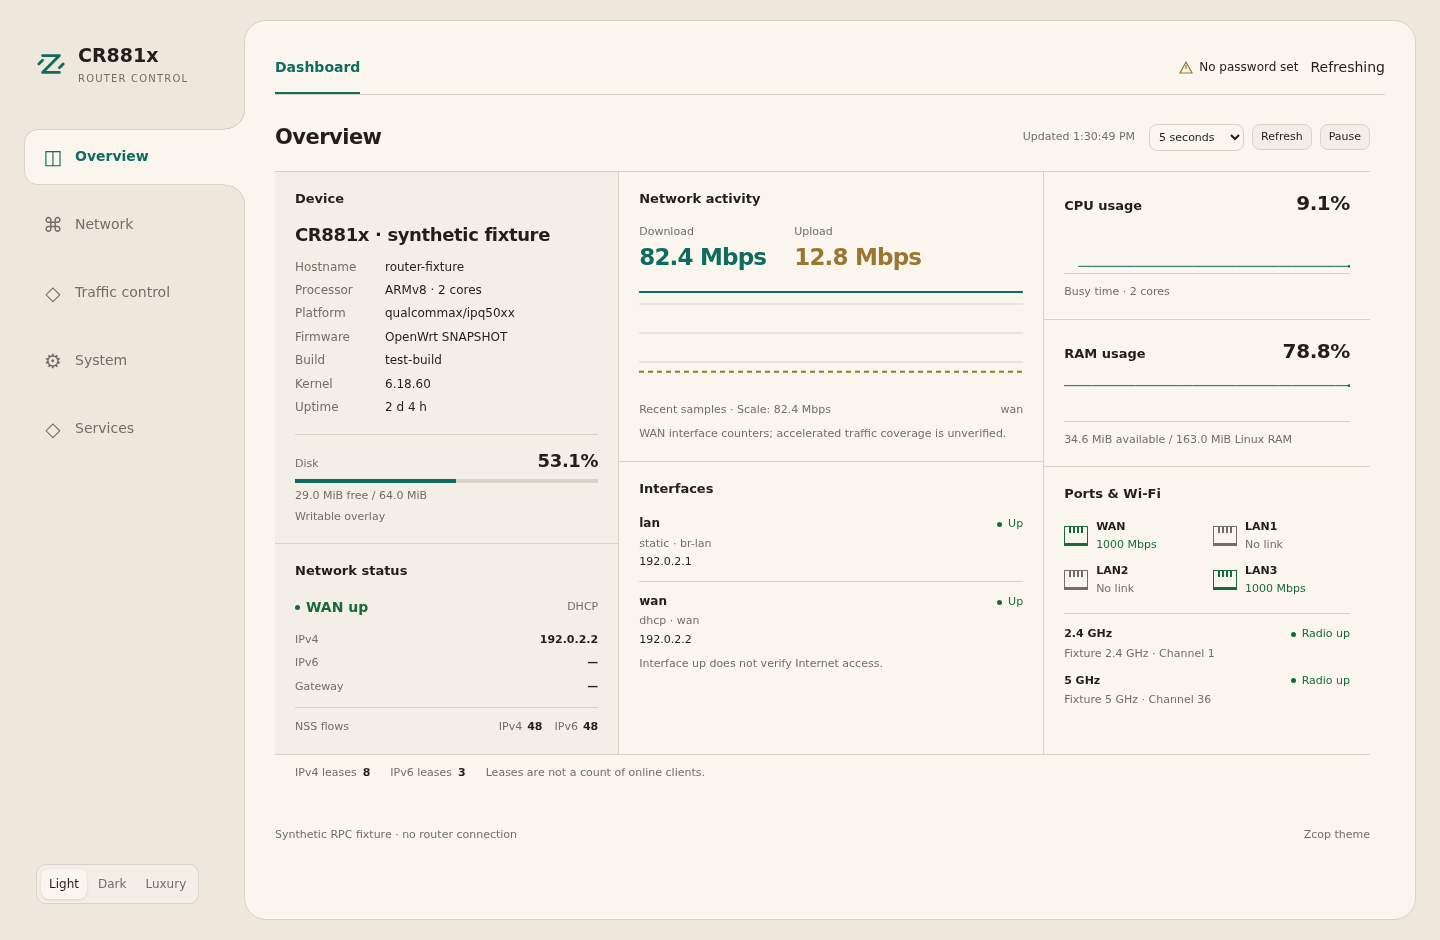
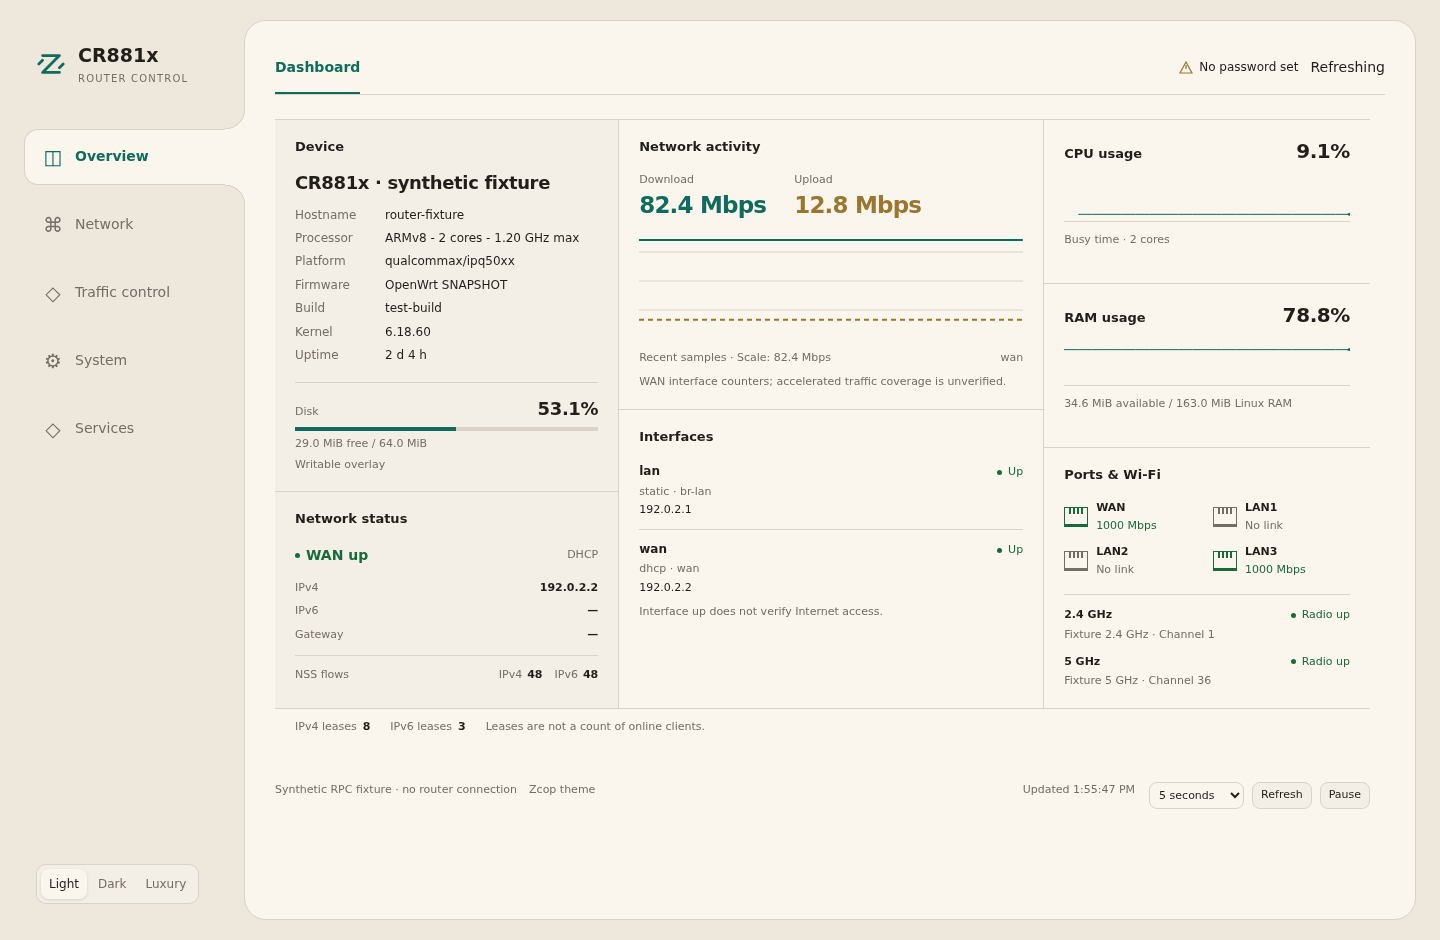
luci-app-zcop-dashboard: stabilize metrics and move controls to footer

diff --git a/luci-app-zcop-dashboard/htdocs/luci-static/resources/view/zcop/dashboard.js b/luci-app-zcop-dashboard/htdocs/luci-static/resources/view/zcop/dashboard.js
@@ -35,11 +35,19 @@ function uptime(seconds) {
 }
 
 return view.extend({
- load() { return L.resolveDefault(board(), {}); },
+ async load() {
+  const [identity, cpuinfo, present, maximum] = await Promise.all([
+   L.resolveDefault(board(), {}), L.resolveDefault(read('/proc/cpuinfo'), ''),
+   L.resolveDefault(read('/sys/devices/system/cpu/present'), ''),
+   L.resolveDefault(read('/sys/devices/system/cpu/cpufreq/policy0/cpuinfo_max_freq'), '')
+  ]);
+  return Object.assign({}, identity, { zcopProcessor: metrics.processor(cpuinfo, present, maximum, identity.system) });
+ },
  render(identity) {
   if (!document.querySelector('#zcop-dashboard-style'))
    document.head.append(E('link', { id: 'zcop-dashboard-style', rel: 'stylesheet', href: L.resource('zcop/dashboard.css') }));
   this.identity = identity;
+  this.processor = identity.zcopProcessor || {};
   this.state = {};
   this.due = {};
   this.latestDevice = null;
@@ -68,17 +76,18 @@ return view.extend({
   const cadence = E('select', { 'aria-label': _('Refresh interval'), 'change': event => {
    this.scheduler.setInterval(Number(event.target.value));
   } }, [E('option', { value: '5000' }, _('5 seconds')), E('option', { value: '10000' }, _('10 seconds')), E('option', { value: '0' }, _('Manual'))]);
-  const root = E('div', { 'class': 'zc-dashboard' }, [
-   E('h2', { 'class': 'zcop-sr-only' }, _('Dashboard')),
-   E('div', { 'class': 'zc-dashboard-meta' }, [
-    E('div', { 'class': 'zc-dashboard-title' }, [E('h3', {}, _('Overview'))]),
-    E('div', { 'class': 'zc-dashboard-controls' }, [this.status, cadence,
-     E('button', { 'type': 'button', 'class': 'btn', 'click': () => this.scheduler.refresh() }, _('Refresh')), pause])]),
-   this.body
-  ]);
+  const root = E('div', { 'class': 'zc-dashboard' }, [E('h2', { 'class': 'zcop-sr-only' }, _('Dashboard')), this.body]);
+  this.controls = E('div', { 'class': 'zc-dashboard-controls' }, [this.status, cadence,
+   E('button', { 'type': 'button', 'class': 'btn', 'click': () => this.scheduler.refresh() }, _('Refresh')), pause]);
+  const footer = document.querySelector('.zcop-footer');
+  if (footer) {
+   footer.classList.add('zc-dashboard-host-footer');
+   footer.append(this.controls);
+  } else root.append(E('footer', { 'class': 'zc-dashboard-host-footer' }, this.controls));
   this.onVisibility = () => this.scheduler.visibility(document.hidden);
   document.addEventListener('visibilitychange', this.onVisibility);
   window.addEventListener('pagehide', () => { this.scheduler.stop(); document.removeEventListener('visibilitychange', this.onVisibility); }, { once: true });
+  this.draw();
   this.scheduler.plan(0);
   return root;
  },
@@ -144,7 +153,8 @@ return view.extend({
    this.wanBaseline = next; this.wanTime = state.wan.time;
   } else if (!wan?.up || !wanSample || wanSample.device !== wan.l3_device) { this.traffic = null; this.wanBaseline = null; }
   const peak = Math.max(1, ...this.history.filter(Boolean).flatMap(sample => [sample.down, sample.up]));
-  const trafficMessage = this.failures.interfaces ? _('WAN status unavailable')
+  const trafficMessage = !state.interfaces && !this.failures.interfaces ? _('Collecting network status…')
+   : this.failures.interfaces ? _('WAN status unavailable')
    : !wan ? _('No WAN configured')
    : wan.up === false ? _('WAN interface is down')
    : wan.up !== true ? _('WAN status unavailable')
@@ -152,12 +162,14 @@ return view.extend({
    : this.failures.wan ? _('Traffic counters unavailable')
    : !this.traffic ? _('Waiting for traffic samples') : null;
   const identity = this.identity || {}, release = identity.release || {};
-  const cores = (cpu || '').match(/^cpu[0-9]+\s/gm)?.length;
+  const cores = this.processor.cores;
   const deviceInfo = section(_('Device'), [
    E('div', { 'class': 'zc-device-model' }, identity.model || _('Unavailable')),
    E('div', { 'class': 'zc-specs' }, [
     pair(_('Hostname'), identity.hostname || '—'),
-    pair(_('Processor'), [identity.system, cores ? cores + ' ' + _('cores') : ''].filter(Boolean).join(' · ') || '—'),
+    pair(_('Processor'), [this.processor.architecture || _('Unavailable'),
+     cores ? cores + ' ' + _('cores') : _('Core count unavailable'),
+     this.processor.maxKHz ? (this.processor.maxKHz / 1000000).toFixed(2) + ' GHz ' + _('max') : _('Max speed unavailable')].join(' - ')),
     pair(_('Platform'), release.target || '—'),
     pair(_('Firmware'), [release.distribution, release.version].filter(Boolean).join(' ') || '—'),
     pair(_('Build'), release.revision || '—'),
@@ -165,7 +177,7 @@ return view.extend({
     pair(_('Uptime'), uptime(current('system')?.uptime))
    ])
   ], 'identity');
-  const cpuPending = cpu && this.cpuBaseline && !Number.isFinite(this.cpuBusy);
+  const cpuPending = !this.failures.cpu && (!state.cpu || cpu && this.cpuBaseline && !Number.isFinite(this.cpuBusy));
   const memoryUsed = Number.isFinite(memory.total) && memory.total > 0 && Number.isFinite(memory.available)
    && memory.available >= 0 && memory.available <= memory.total ? memory.total - memory.available : null;
   const disk = this.storage(current('mounts'));
@@ -176,13 +188,13 @@ return view.extend({
   }
   const cpuPanel = section(_('CPU usage'), [
    E('strong', { 'class': 'zc-util-value' }, Number.isFinite(this.cpuBusy) ? number(this.cpuBusy) + '%' : '—'),
-   Number.isFinite(this.cpuBusy) ? this.sparkline(this.cpuHistory, _('Recent CPU busy samples')) : null,
+   E('div', { 'class': 'zc-trend-slot' }, this.sparkline(Number.isFinite(this.cpuBusy) ? this.cpuHistory : [], _('Recent CPU busy samples'))),
    E('p', { 'class': 'zc-note' }, cpuPending ? _('Waiting for the next CPU sample')
     : !Number.isFinite(this.cpuBusy) ? _('CPU data unavailable') : _('Busy time') + (cores ? ' · ' + cores + ' ' + _('cores') : ''))
   ], 'cpu');
   const ramPanel = section(_('RAM usage'), [
    E('strong', { 'class': 'zc-util-value' }, memoryUsed === null ? '—' : number(memoryUsed / memory.total * 100) + '%'),
-   memoryUsed === null ? null : this.sparkline(this.ramHistory, _('Recent RAM usage samples')),
+   E('div', { 'class': 'zc-trend-slot' }, this.sparkline(memoryUsed === null ? [] : this.ramHistory, _('Recent RAM usage samples'))),
    E('p', { 'class': 'zc-note' }, memoryUsed === null ? _('Memory data unavailable')
     : mib(memory.available) + ' ' + _('available') + ' / ' + mib(memory.total) + ' ' + _('Linux RAM'))
   ], 'memory');

diff --git a/luci-app-zcop-dashboard/htdocs/luci-static/resources/zcop/dashboard.css b/luci-app-zcop-dashboard/htdocs/luci-static/resources/zcop/dashboard.css
@@ -1,7 +1,5 @@
 /* SPDX-License-Identifier: Apache-2.0 */
 .zc-dashboard{container-type:inline-size}
-.zc-dashboard-meta{display:flex;align-items:center;justify-content:space-between;gap:16px;margin-bottom:16px;flex-wrap:wrap}
-.zc-dashboard-title h3{font-size:21px!important;letter-spacing:-.025em;margin:0!important;font-weight:600}
 .zc-dashboard-controls{display:flex;align-items:center;gap:8px;max-width:100%;flex-wrap:wrap}
 .zc-dashboard-controls select{width:auto;min-width:0;height:27px;font-size:11px;padding:2px 5px}
 .zc-dashboard-controls button{font-size:11px;padding:4px 8px}
@@ -55,7 +53,11 @@
 .zc-cpu h3,.zc-memory h3{margin:0!important}.zc-util-value{font-size:20px;line-height:1.3;font-weight:550;font-variant-numeric:tabular-nums;letter-spacing:-.02em}
 .zc-sparkline{grid-column:1/-1;display:block;width:100%;height:48px;overflow:hidden;border-bottom:1px solid var(--zc-line);margin:2px 0}
 .zc-sparkline path{fill:none;stroke:var(--zc-accent);stroke-width:1;vector-effect:non-scaling-stroke}.zc-sparkline circle{fill:var(--zc-accent)}
-.zc-cpu>.zc-note,.zc-memory>.zc-note{grid-column:1/-1;margin:0}
+.zc-trend-slot{grid-column:1/-1;height:52px}
+.zc-cpu>.zc-note,.zc-memory>.zc-note{grid-column:1/-1;margin:0;min-height:3em}
 .zc-network-footer{padding:10px 20px}
-@container(max-width:900px){.zc-dashboard-grid{grid-template-columns:minmax(0,1fr) minmax(0,1.2fr)}.zc-pane-metrics{grid-column:1/-1;border-left:0;border-top:1px solid var(--zc-line);display:grid;grid-template-columns:repeat(2,minmax(0,1fr));align-items:start}.zc-pane-metrics>.zc-section{border-top:0}.zc-pane-metrics>.zc-memory{border-left:1px solid var(--zc-line)}.zc-pane-metrics>.zc-ethernet{grid-column:1/-1;border-top:1px solid var(--zc-line)}.zc-ports{grid-template-columns:repeat(4,minmax(0,1fr))}.zc-refresh-status{flex-basis:100%;margin:0}.zc-dashboard-meta{gap:10px}}
+.zc-dashboard-host-footer{justify-content:flex-start;align-items:center;flex-wrap:wrap}.zc-dashboard-host-footer .zc-dashboard-controls{margin-left:auto}
+@container(max-width:900px){.zc-dashboard-grid{grid-template-columns:minmax(0,1fr) minmax(0,1.2fr)}.zc-pane-metrics{grid-column:1/-1;border-left:0;border-top:1px solid var(--zc-line);display:grid;grid-template-columns:repeat(2,minmax(0,1fr));align-items:start}.zc-pane-metrics>.zc-section{border-top:0}.zc-pane-metrics>.zc-memory{border-left:1px solid var(--zc-line)}.zc-pane-metrics>.zc-ethernet{grid-column:1/-1;border-top:1px solid var(--zc-line)}.zc-ports{grid-template-columns:repeat(4,minmax(0,1fr))}.zc-refresh-status{flex-basis:100%;margin:0}}
 @container(max-width:550px){.zc-dashboard-grid{grid-template-columns:minmax(0,1fr)}.zc-pane,.zc-pane-metrics{grid-column:1;border-left:0}.zc-pane+.zc-pane{border-top:1px solid var(--zc-line)}.zc-pane-metrics{display:block}.zc-pane-metrics>.zc-memory,.zc-pane-metrics>.zc-ethernet{border-left:0;border-top:1px solid var(--zc-line)}.zc-section{padding:16px}.zc-dashboard-controls{gap:6px}.zc-traffic-values{gap:24px}.zc-specs .zc-datum{grid-template-columns:76px minmax(0,1fr)}.zc-ports{grid-template-columns:repeat(2,minmax(0,1fr))}.zc-network-footer{padding:10px 16px}}
+
+@media(max-width:720px){.zc-dashboard-host-footer .zc-dashboard-controls{margin-left:0;justify-content:center}.zc-dashboard-host-footer .zc-refresh-status{flex-basis:100%;text-align:center}}

diff --git a/luci-app-zcop-dashboard/htdocs/luci-static/resources/zcop/metrics.js b/luci-app-zcop-dashboard/htdocs/luci-static/resources/zcop/metrics.js
@@ -2,6 +2,27 @@
 'require baseclass';
 /* SPDX-License-Identifier: Apache-2.0. Pure calculations, no I/O. */
 return baseclass.extend({
+ processor(cpuinfo, present, maxFrequency, fallback) {
+  const explicit = /^CPU architecture\s*:\s*(\d+(?:\.\d+)?)\s*$/mi.exec(cpuinfo || '');
+  const model = /\bARMv(\d+(?:\.\d+)?)/i.exec(cpuinfo || fallback || '');
+  let architecture = explicit ? 'ARMv' + explicit[1] : model ? 'ARMv' + model[1] : fallback || null;
+  // CPU revision/variant are not architecture minor versions.
+  if (explicit && model && model[1].includes('.') && model[1].split('.')[0] === explicit[1]) architecture = 'ARMv' + model[1];
+  const ids = new Set();
+  const list = String(present || '').trim().split(',');
+  const valid = list.every(range => {
+   const match = /^(\d+)(?:-(\d+))?$/.exec(range.trim());
+   if (!match) return false;
+   const first = Number(match[1]), last = Number(match[2] ?? match[1]);
+   if (first > last || last > 4095) return false;
+   for (let id = first; id <= last; id++) ids.add(id);
+   return true;
+  });
+  const listed = [...String(cpuinfo || '').matchAll(/^processor\s*:\s*(\d+)\s*$/gm)].map(match => match[1]);
+  const cores = valid && ids.size ? ids.size : listed.length ? new Set(listed).size : null;
+  const khz = /^\d+$/.test(String(maxFrequency || '').trim()) ? Number(String(maxFrequency).trim()) : null;
+  return { architecture, cores, maxKHz: Number.isSafeInteger(khz) && khz > 0 ? khz : null };
+ },
  cpu(text) {
   const match = /^cpu\s+(.+)$/m.exec(text || '');
   if (!match) return null;

diff --git a/docs/dashboard-design.md b/docs/dashboard-design.md
@@ -29,6 +29,12 @@ uses one vertical stack. Fixed sidebar/section menus and the stable outer main
 frame remain supplied by the theme. The DHCP lease footer labels leases rather
 than claiming online clients.
 
+The top Dashboard tab is the page title; there is no duplicate Overview heading
+inside the view. Refresh status, interval and pause/refresh controls are placed
+in the existing page footer. CPU/RAM plots retain their space while loading or
+unavailable, and their annotation rows retain two lines of space, so polling
+does not move neighboring sections.
+
 CPU/RAM plots use existing15-second snapshots, without any additional request.
 Each browser-local array is limited to60 numeric samples/gap markers. A single
 sample is a point; missing values and resets break the plotted line. Plots span
@@ -48,7 +54,7 @@ database. One collector runs at a time; numeric history stays in the browser.
 
 | Snapshot | Refresh while visible | Source |
 | --- | --- | --- |
-| Board identity | Once per page | system.board |
+| Board/processor identity | Once per page | system.board, /proc/cpuinfo, CPU present list and policy0 cpuinfo_max_freq |
 | WAN counters | 5 seconds; selectable 10 seconds or manual | Selected WAN L3 device status |
 | CPU, memory, uptime and interface/link state | 15 seconds | /proc/stat, system.info and existing network summaries |
 | Radio state, leases and optional accelerated-flow counts | 30 seconds | Existing luci-rpc summaries and two debugfs scalar reads |
@@ -60,6 +66,11 @@ CPU busy percentage uses CPU-time deltas, not load average or a shell top comman
 
 ## Accuracy
 
+- Processor details use reported architecture, present CPU IDs (including an
+  offline present CPU), and the maximum cpufreq value in kHz. The display converts
+  that value to GHz; it does not use BogoMIPS, a changing current clock, CPU
+  revision as an ISA minor version, or a hardcoded board frequency. Missing
+  fields remain unavailable. The CR881x reports ARMv8,2 cores and1200000kHz.
 - Interface up does not verify gateway, DNS or Internet connectivity. No probe
   runs. Absent link information differs from a reported disconnected port.
 - RAM percentage is (MemTotal - MemAvailable) / MemTotal. Its capacity is the

diff --git a/docs/validation.md b/docs/validation.md
@@ -1,5 +1,24 @@
 # Validation
 
+## Footer, stable metrics and processor details, 2026-11-12
+
+Dashboard version: 0.4.1-r1. Theme remains0.1.4-r1.
+
+- Removed the duplicate Overview heading. Refresh controls/status now appear
+  in the existing page footer, outside the dashboard data rerender region.
+- CPU/RAM chart slots remain present while pending, failed or recovering.
+  Their annotations retain a consistent height. Browser checks compare panel
+  geometry before the first sample, after updates, on failure and when paused.
+- Processor metadata is read once per page through three narrowly allowed file
+  paths: /proc/cpuinfo, /sys/devices/system/cpu/present and the policy0
+  cpuinfo_max_freq file. The recurring collector is unchanged. The live router
+  reports architecture8, present CPUs0-1, maximum1200000kHz; revision4 is not
+  treated as architecture8.4.
+- Unit checks cover ranges/duplicates, offline-present cores, absent or invalid
+  fields, frequency parsing and architecture/revision separation. Browser
+  fixtures verify the processor label and that these fields are never polled.
+- Existing metric, scheduling, menu, ACL-fallback and responsive checks pass.
+
 ## Overview navigation and top-bar notice, 2026-11-12
 
 Theme version: 0.1.4-r1. Dashboard remains0.4.0-r1.

diff --git a/README.md b/README.md
@@ -92,6 +92,9 @@ data. It uses connected panes with shared divider lines: device details and disk
 the left, WAN activity and logical interfaces in the wider center, and compact
 CPU/RAM trends plus ports/radios on the right. A quiet background separates
 the device pane without rounded cards. Panes reflow as the frame narrows.
+Refresh controls sit in the page footer. CPU/RAM sections retain their size
+through pending/error states. Processor architecture, present-core count and
+maximum frequency are read once per page; unavailable fields are not guessed.
 Detailed configuration stays on the existing pages. Missing data is shown as
 unavailable; an interface being up does not claim Internet reachability, and
 lease counts do not claim that clients are online.
